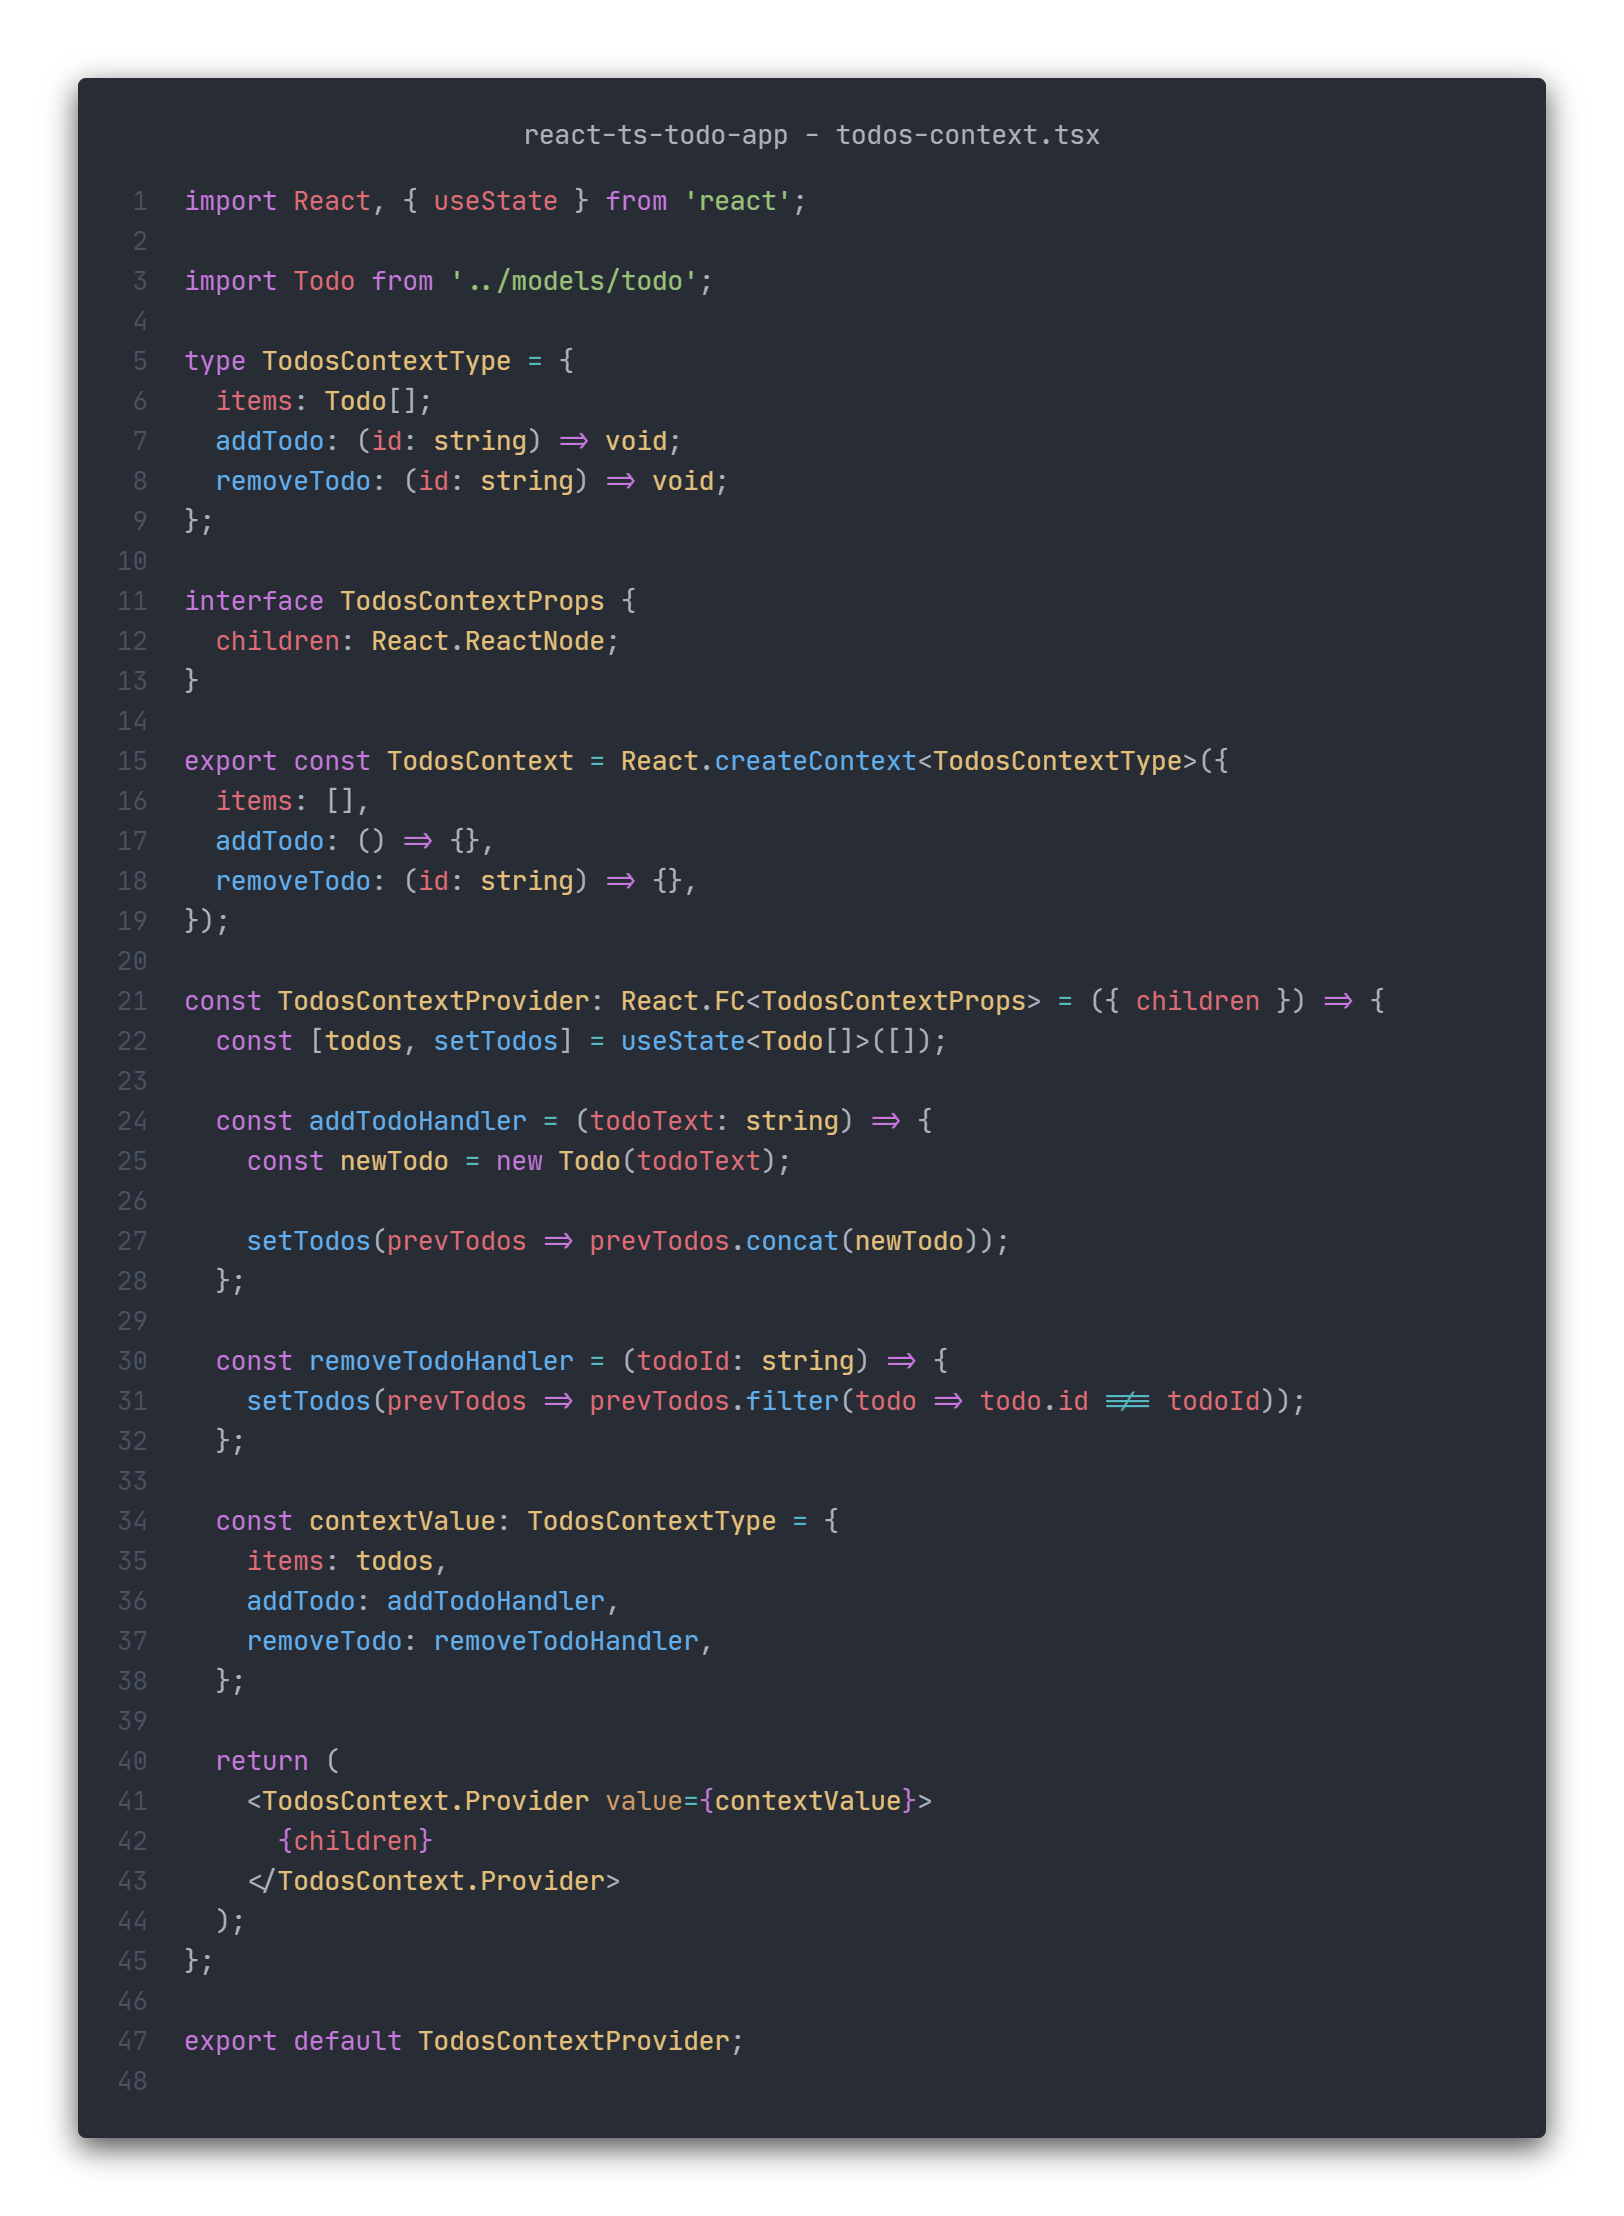
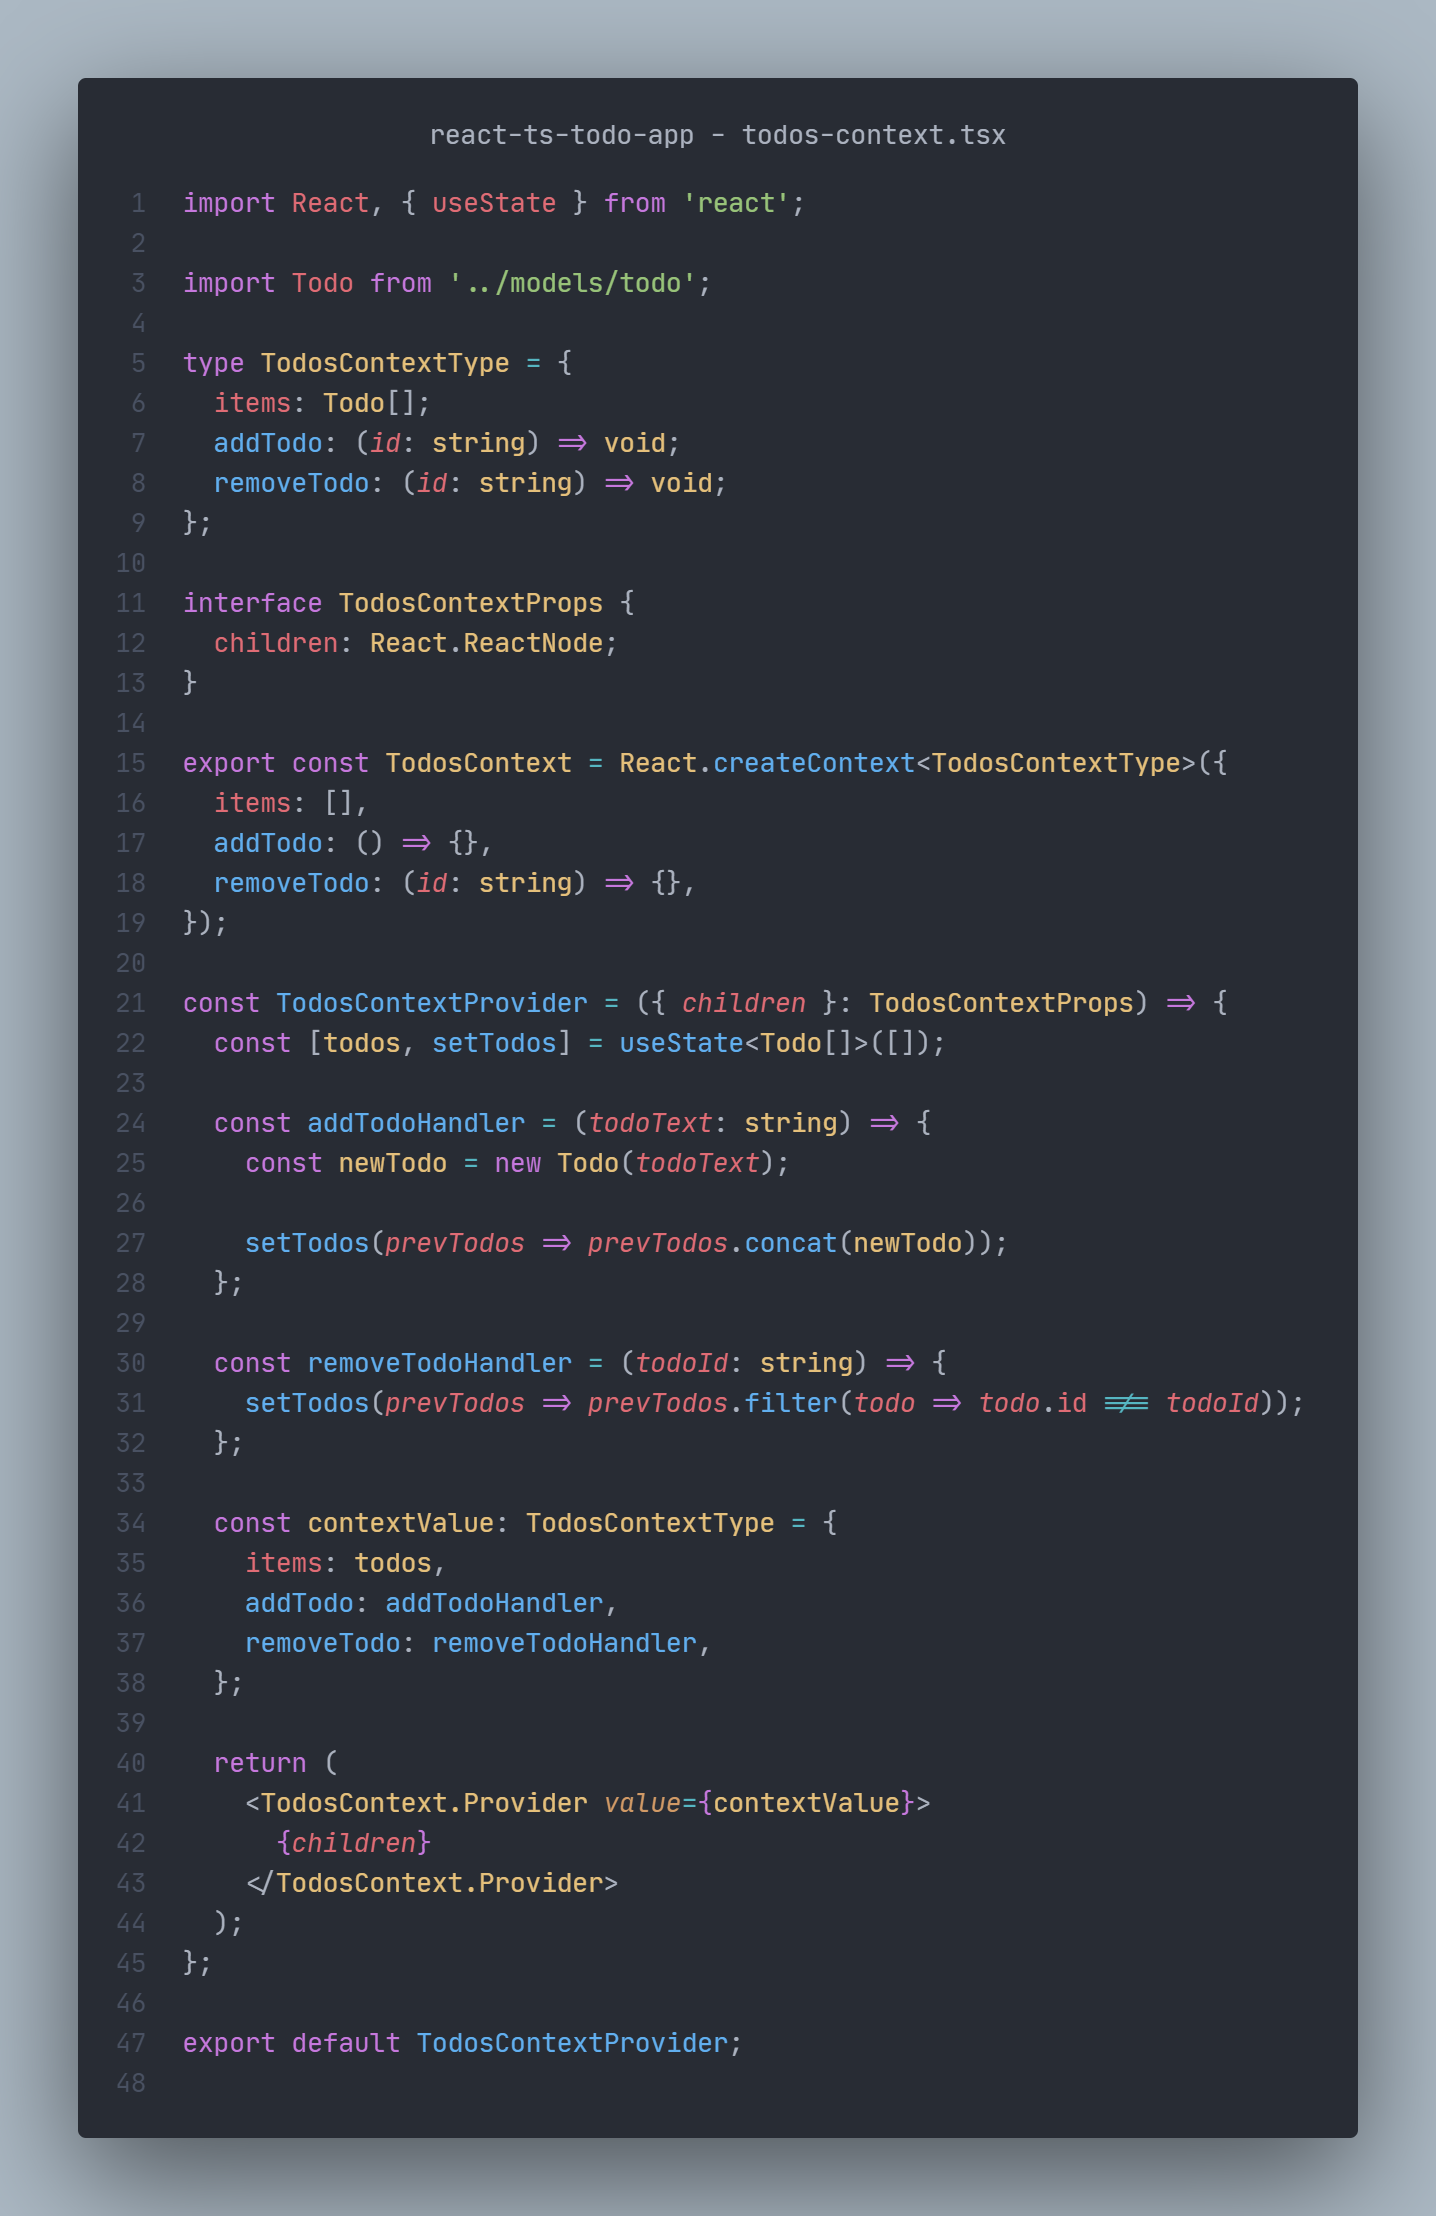
rewrote the app without React.FC

diff --git a/src/components/NewTodo.tsx b/src/components/NewTodo.tsx
@@ -1,9 +1,9 @@
-import { FC, useRef, useContext } from 'react';
+import { useRef, useContext } from 'react';
 
 import { TodosContext } from '../context/todos-context';
 import classes from './NewTodo.module.css';
 
-const NewTodo: FC = () => {
+const NewTodo = () => {
   const todoTextInputRef = useRef<HTMLInputElement>(null);
   const todosCtx = useContext(TodosContext);
 

diff --git a/src/context/todos-context.tsx b/src/context/todos-context.tsx
@@ -18,7 +18,7 @@ export const TodosContext = React.createContext<TodosContextType>({
   removeTodo: (id: string) => {},
 });
 
-const TodosContextProvider: React.FC<TodosContextProps> = ({ children }) => {
+const TodosContextProvider = ({ children }: TodosContextProps) => {
   const [todos, setTodos] = useState<Todo[]>([]);
 
   const addTodoHandler = (todoText: string) => {

diff --git a/src/components/TodoItem.tsx b/src/components/TodoItem.tsx
@@ -1,10 +1,6 @@
-import React, { FC } from 'react';
 import classes from './TodoItem.module.css';
 
-const TodoItem: FC<{
-  text: string;
-  onRemoveTodo: () => void;
-}> = props => {
+const TodoItem = (props: { text: string; onRemoveTodo: () => void }) => {
   return (
     <li className={classes.item} onClick={props.onRemoveTodo}>
       {props.text}

diff --git a/src/components/Todos.tsx b/src/components/Todos.tsx
@@ -1,10 +1,10 @@
-import { FC, useContext } from 'react';
+import { useContext } from 'react';
 import TodoItem from './TodoItem';
 import { TodosContext } from '../context/todos-context';
 
 import classes from './Todos.module.css';
 
-const Todos: FC = () => {
+const Todos = () => {
   const todosCtx = useContext(TodosContext);
 
   return (
